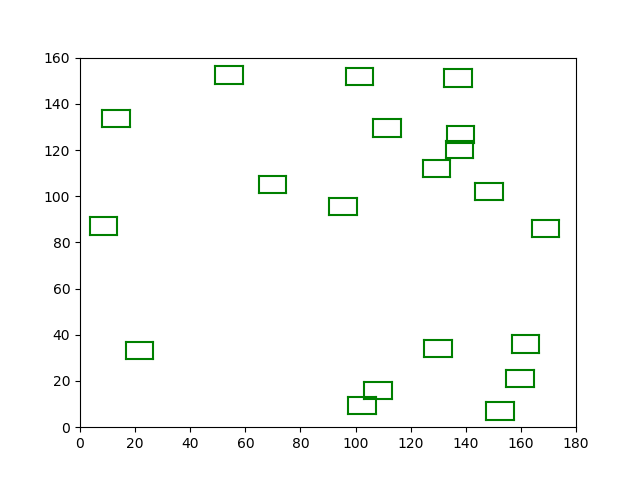
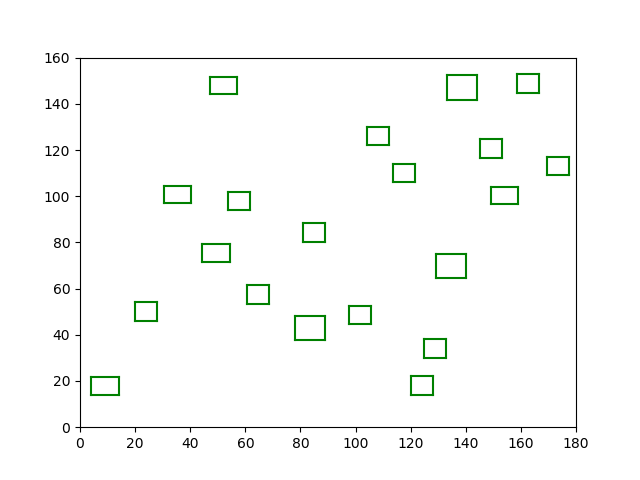
Push voordat ik ga.

diff --git a/Visuals/scatterplot.py b/Visuals/scatterplot.py
@@ -47,23 +47,23 @@ def scatterplot(ah_map, name, directory):
 		data.append([ah_map.houses[i].corners['lb']['x'],
 					 ah_map.houses[i].corners['lb']['y']])
 
-	# for water in ah_map.water:
-	data.append([ah_map.water.corners['lb']['x'],
-				 ah_map.water.corners['lb']['y']])
-	data.append([ah_map.water.corners['lo']['x'],
-				 ah_map.water.corners['lo']['y']])
-	data.append([ah_map.water.corners['lo']['x'],
-				 ah_map.water.corners['lo']['y']])
-	data.append([ah_map.water.corners['ro']['x'],
-				 ah_map.water.corners['ro']['y']])
-	data.append([ah_map.water.corners['ro']['x'],
-				 ah_map.water.corners['ro']['y']])
-	data.append([ah_map.water.corners['rb']['x'],
-				 ah_map.water.corners['rb']['y']])
-	data.append([ah_map.water.corners['rb']['x'],
-				 ah_map.water.corners['rb']['y']])
-	data.append([ah_map.water.corners['lb']['x'],
-				 ah_map.water.corners['lb']['y']])
+	# # for water in ah_map.water:
+	# data.append([ah_map.water.corners['lb']['x'],
+	# 			 ah_map.water.corners['lb']['y']])
+	# data.append([ah_map.water.corners['lo']['x'],
+	# 			 ah_map.water.corners['lo']['y']])
+	# data.append([ah_map.water.corners['lo']['x'],
+	# 			 ah_map.water.corners['lo']['y']])
+	# data.append([ah_map.water.corners['ro']['x'],
+	# 			 ah_map.water.corners['ro']['y']])
+	# data.append([ah_map.water.corners['ro']['x'],
+	# 			 ah_map.water.corners['ro']['y']])
+	# data.append([ah_map.water.corners['rb']['x'],
+	# 			 ah_map.water.corners['rb']['y']])
+	# data.append([ah_map.water.corners['rb']['x'],
+	# 			 ah_map.water.corners['rb']['y']])
+	# data.append([ah_map.water.corners['lb']['x'],
+	# 			 ah_map.water.corners['lb']['y']])
 
 	axes = plot.gca()
 	axes.set_xlim([0, ah_map.width])

diff --git a/Algorithms/particle_swarm.py b/Algorithms/particle_swarm.py
@@ -99,27 +99,33 @@ def particle_swarm_map(map_charac, tries):
 
 	for i in range(tries):
 		for j in range(len(out_map.houses) - 1):
-			# print(len(out_map.houses))
-			# print(j)
+
+			print('old location: ', i, out_map.houses[j].location)
+
 			out_map.houses[j].calc_freespace(out_map)
+
 			freespace = out_map.houses[j].freespace
-			out_map.houses[j].direction = {'x' : random.uniform(- freespace, freespace),
-						 	   			   'y' : random.uniform(- freespace, freespace)}
+
+			out_map.houses[j].direction = {'x' : random.uniform(- freespace,
+																freespace),
+						 	   			   'y' : random.uniform(- freespace,
+										   						freespace)}
 
 			loc = {'x' : out_map.houses[j].location['x'] +
 						 out_map.houses[j].direction['x'],
 				   'y' : out_map.houses[j].location['y'] +
 				   		 out_map.houses[j].direction['y']}
 
-			copy_house = copy.copy(out_map.houses[j])
-			del out_map.houses[j]
-
-			allowed = out_map.place_house(loc, out_map.houses[j].self_id,
-									  out_map.types[out_map.houses[j].index_nr])
-
-			if allowed == False:
-				out_map.houses.append(copy_house)
-			# print('scatter')
+			allowed = out_map.move_house(j, loc)
+			print('new location: ', i, out_map.houses[j].location)
+			# copy_house = copy.copy(out_map.houses[j])
+			# del out_map.houses[j]
+            #
+			# allowed = out_map.place_house(loc, out_map.houses[j].self_id,
+			# 						  out_map.types[out_map.houses[j].index_nr])
+            #
+			# if allowed == False:
+			# 	out_map.houses.append(copy_house)
 			scatterplot(out_map, str(100 * i + j), 'TESTparticle')
 
 		for house in out_map.houses:

diff --git a/Classes/map.py b/Classes/map.py
@@ -63,11 +63,11 @@ class Map(object):
 			if house.freespace < house.min_free:
 				del self.houses[len(self.houses) - 1]
 				return False
-			if house.corners['lb']['y'] < self.water.corners['lo']['y'] & \
-			   house.corners['lo']['x'] > self.water.corners['ro']['x'] & \
-			   house.corners['lo']['y'] > self.water.corners['lb']['y'] & \
-			   house.corners['ro']['x'] < self.water.corners['lo']['x']:
-				del self.houses[len(self.houses) - 1]
+			# if house.corners['lb']['y'] < self.water.corners['lo']['y'] & \
+			#    house.corners['lo']['x'] > self.water.corners['ro']['x'] & \
+			#    house.corners['lo']['y'] > self.water.corners['lb']['y'] & \
+			#    house.corners['ro']['x'] < self.water.corners['lo']['x']:
+			# 	del self.houses[len(self.houses) - 1]
 				return False
 
 		return True
@@ -109,6 +109,22 @@ class Map(object):
 						and water.corners['rb']['x'] < self.width and water.corners['rb']['y'] < self.height:
 							self.water = tmp_list[-1]
 							allowed = True
+
+
+	def move_house(self, index, new_loc):
+
+		old_loc = self.houses[index].location
+		self.houses[index].location = new_loc
+		# print(new_loc)
+
+		for house in self.houses:
+			if house.calc_freespace(self) == False:
+				self.houses[index].location = old_loc
+				return False
+			else:
+				# print(self.houses[index].location)
+				return True
+
 
 	def calc_freespace_on_map(self, new_house):
 		'''Calculating location with the most freespace on map.

diff --git a/Running_Scripts/particle_swarm_test.py b/Running_Scripts/particle_swarm_test.py
@@ -1,7 +1,7 @@
 
 from __import__ import *
 
-particle_map = particle_swarm_map(MAP_20, 10)
+particle_map = particle_swarm_map(MAP_20, 5)
 print('particle:', particle_map['map'].score)
 
 scatterplot(particle_map['map'], 'particle swarm 1', '')
